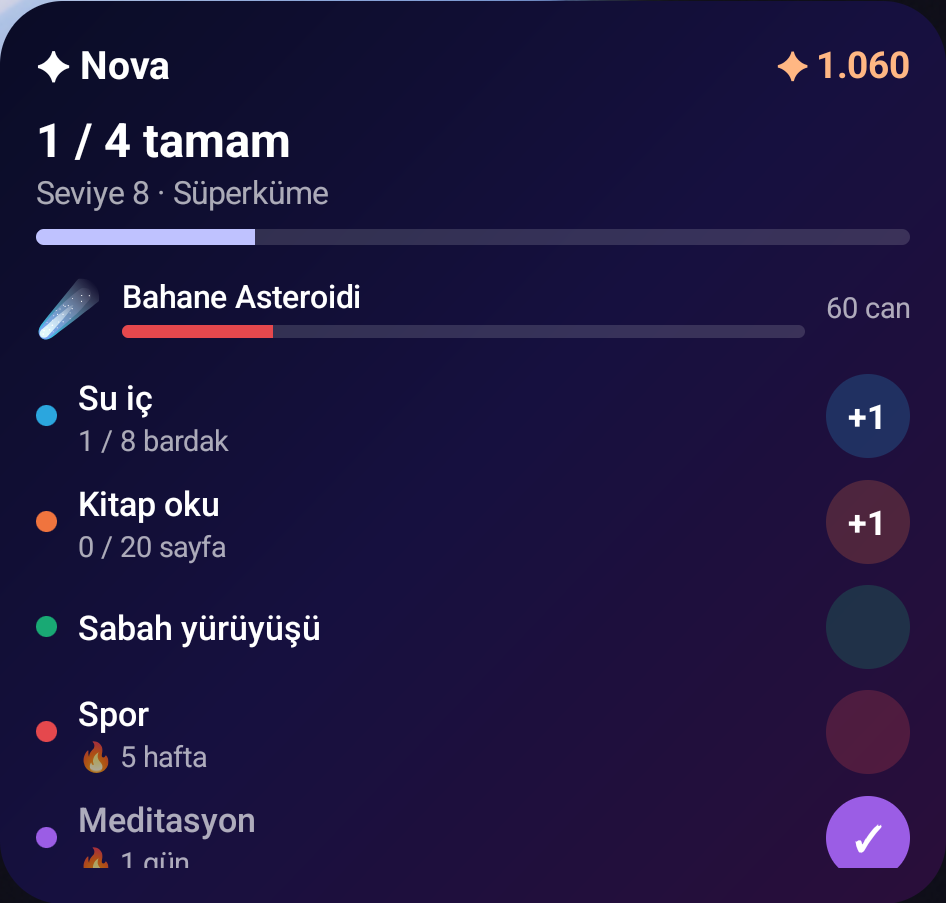
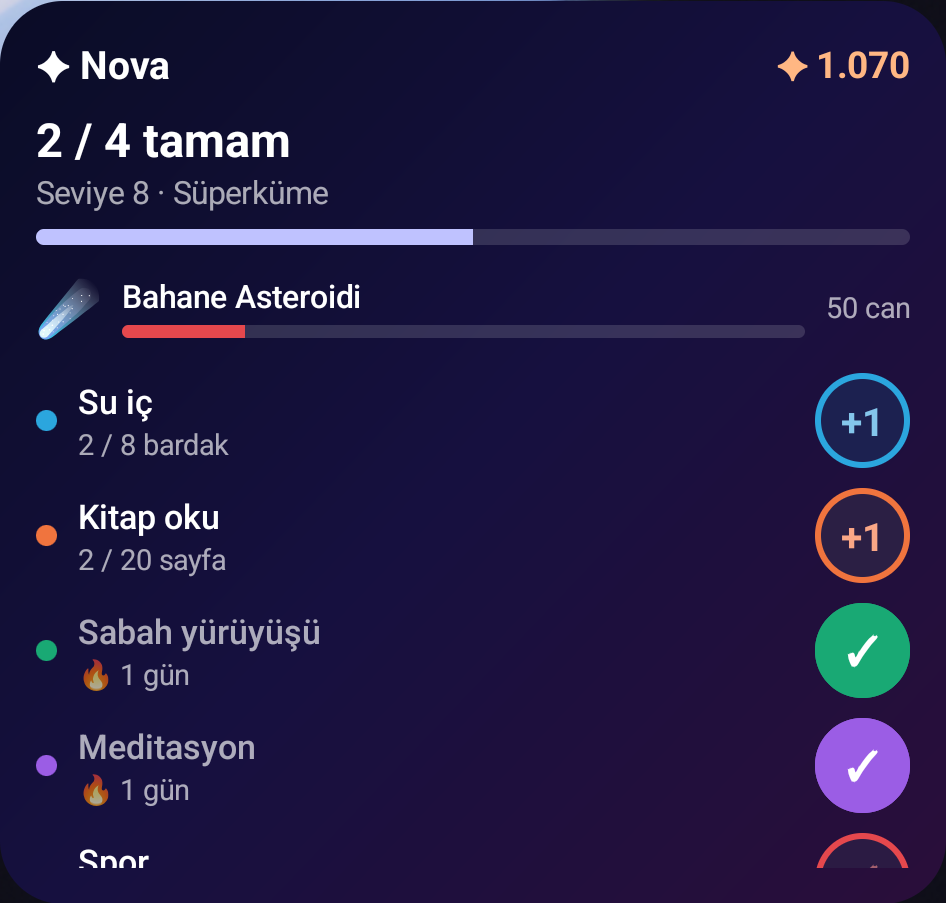
Widget: yapılmamış alışkanlık düğmesi renkli halka ve işaretle belirgin

diff --git a/app/src/main/java/com/l4ngel/nova/widget/NovaWidget.kt b/app/src/main/java/com/l4ngel/nova/widget/NovaWidget.kt
@@ -5,6 +5,7 @@ import androidx.compose.runtime.Composable
 import androidx.compose.runtime.collectAsState
 import androidx.compose.runtime.getValue
 import androidx.compose.ui.graphics.Color
+import androidx.compose.ui.graphics.lerp
 import androidx.compose.ui.unit.DpSize
 import androidx.compose.ui.unit.dp
 import androidx.compose.ui.unit.sp
@@ -160,6 +161,8 @@ class ToggleHabitAction : ActionCallback {
 private val WHITE = ColorProvider(Color.White)
 private val MUTED = ColorProvider(Color.White.copy(alpha = 0.65f))
 private val PEACH = ColorProvider(Color(0xFFFFB783))
+/** Widget zemininin ortası; halkanın içi zeminle aynı görünsün. */
+private val RING_INNER = Color(0xFF16103F)
 private val TRACK = ColorProvider(Color.White.copy(alpha = 0.14f))
 
 @Composable
@@ -254,20 +257,27 @@ private fun HabitRow(h: WidgetHabit) {
             if (h.detail.isNotEmpty()) Text(h.detail, style = TextStyle(color = MUTED, fontSize = 11.sp), maxLines = 1)
         }
         Spacer(GlanceModifier.width(8.dp))
+        // Yapılmamışken renkli halka ve soluk işaret: dokunulabilir olduğu ilk bakışta belli olsun.
+        // Halka iç içe iki daireyle çizilir; uzak görünümde çizgi kenarlığı yok.
+        val tap = actionRunCallback<ToggleHabitAction>(actionParametersOf(HABIT_KEY to h.id))
         Box(
-            GlanceModifier
-                .size(32.dp)
-                .cornerRadius(16.dp)
-                .background(if (h.done) color else color.copy(alpha = 0.22f))
-                .clickable(actionRunCallback<ToggleHabitAction>(actionParametersOf(HABIT_KEY to h.id))),
+            GlanceModifier.size(36.dp).cornerRadius(18.dp).background(color).padding(if (h.done) 0.dp else 2.5.dp).clickable(tap),
             contentAlignment = Alignment.Center,
         ) {
-            val label = when {
-                h.done -> "✓"
-                h.target > 1 -> "+1"
-                else -> ""
+            Box(
+                GlanceModifier.fillMaxSize().cornerRadius(16.dp).background(if (h.done) color else lerp(RING_INNER, color, 0.12f)),
+                contentAlignment = Alignment.Center,
+            ) {
+                Text(
+                    if (!h.done && h.target > 1) "+1" else "✓",
+                    style = TextStyle(
+                        color = if (h.done) WHITE else ColorProvider(lerp(color, Color.White, 0.35f).copy(alpha = if (h.target > 1) 1f else 0.6f)),
+                        fontSize = 15.sp,
+                        fontWeight = FontWeight.Bold,
+                        textAlign = TextAlign.Center,
+                    ),
+                )
             }
-            Text(label, style = TextStyle(color = WHITE, fontSize = 13.sp, fontWeight = FontWeight.Bold, textAlign = TextAlign.Center))
         }
     }
 }
